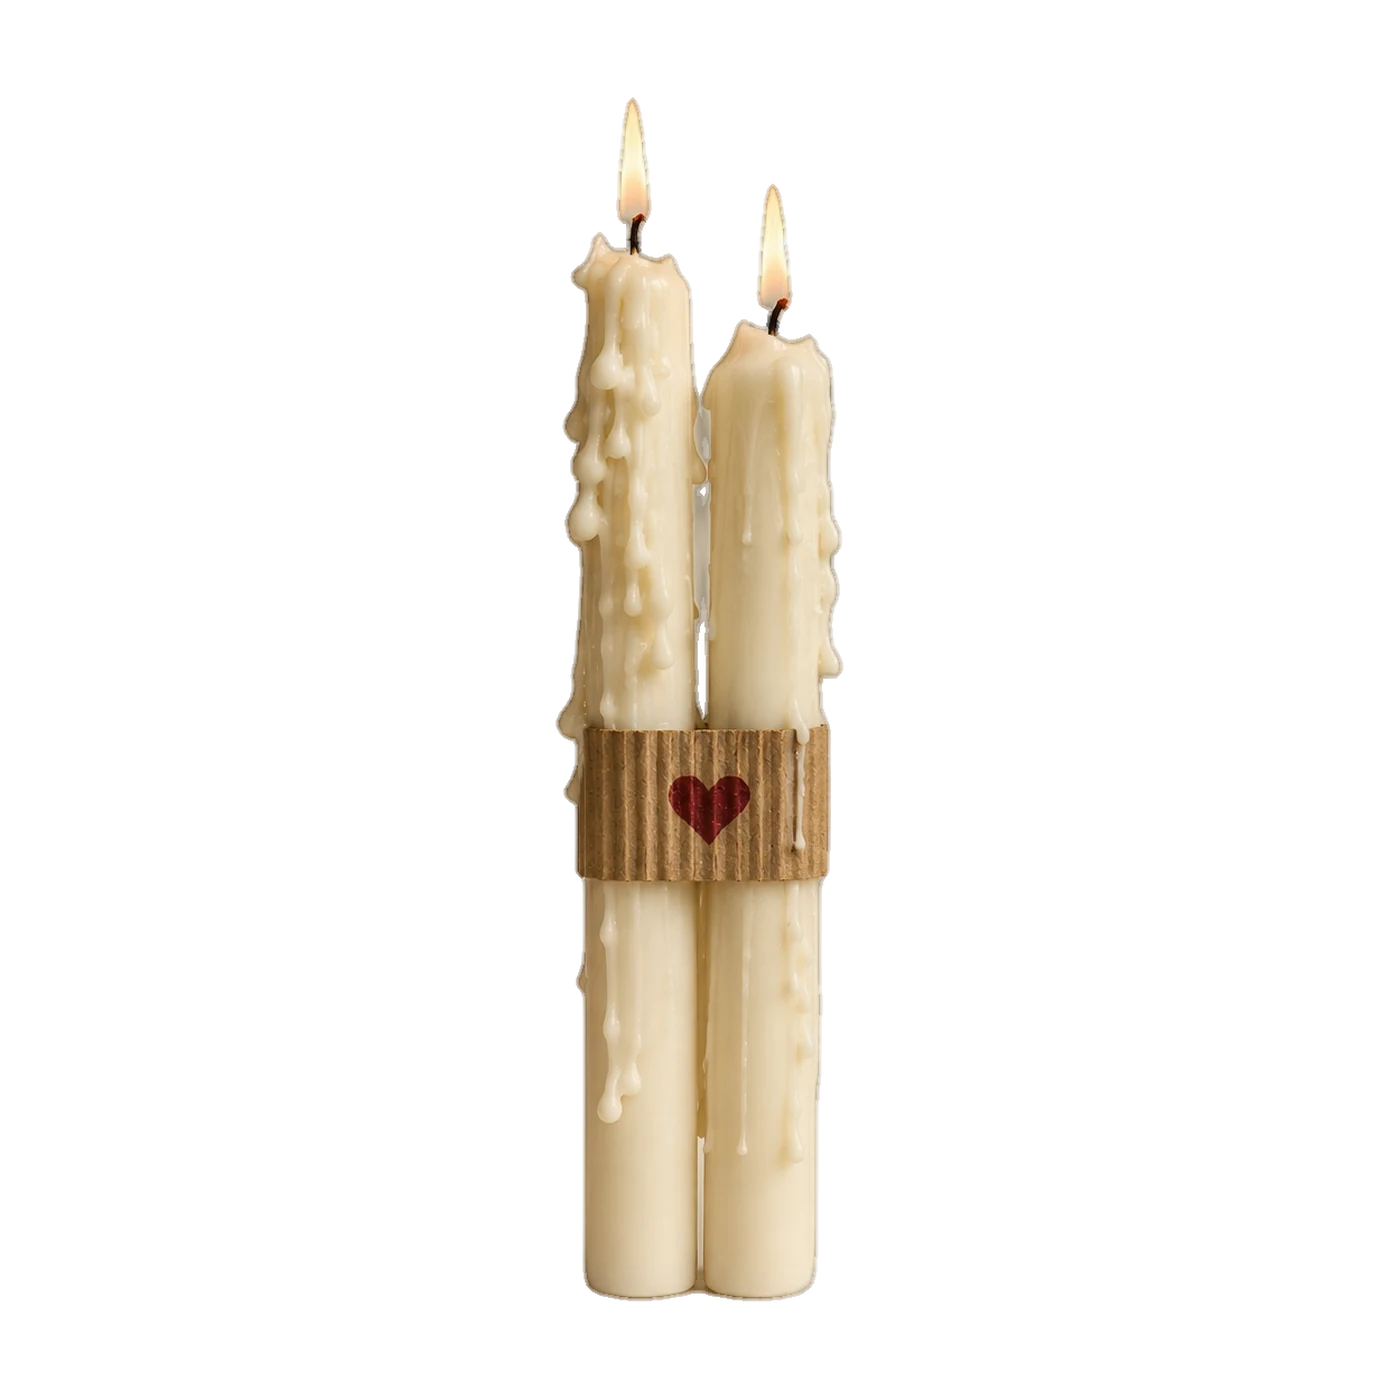
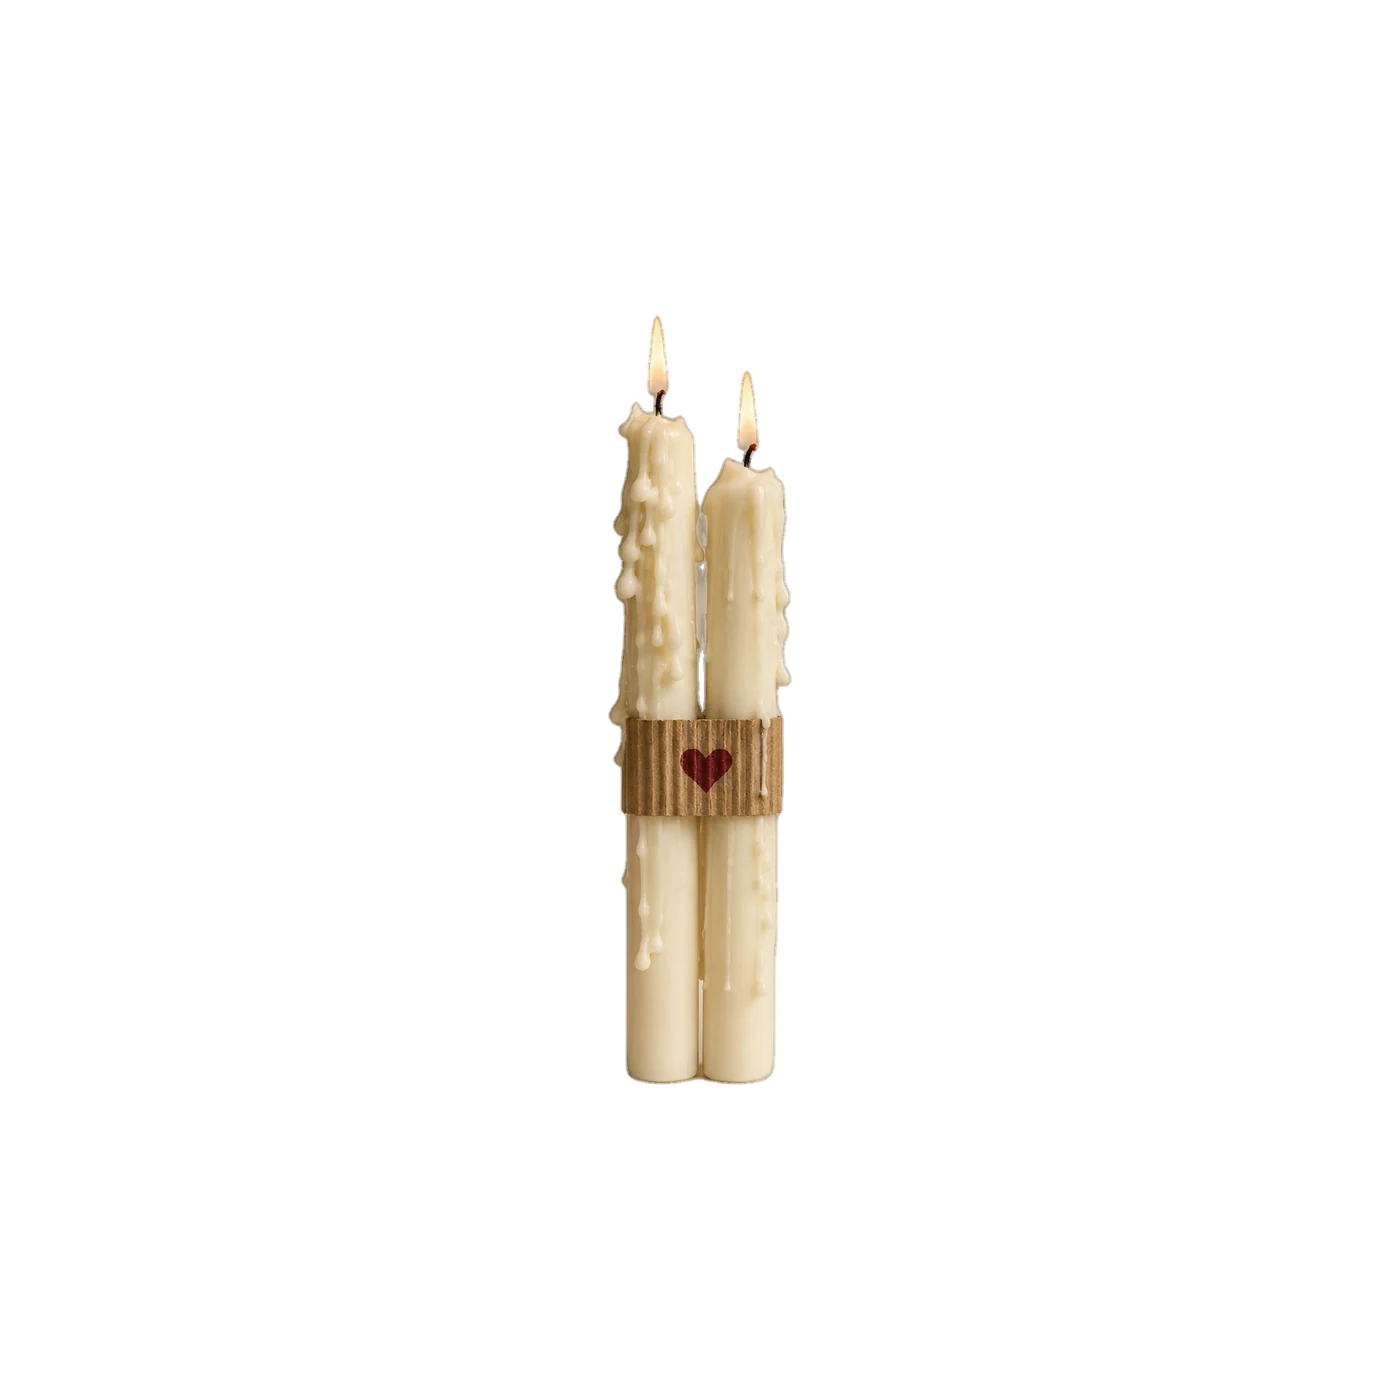
Bring all seven product photos to the same spacious Margiela-style margin
The first pass only re-padded the three that looked obviously oversized
(candle tin, matchbox, lighters) to ~65% fill, leaving candle-sticks and
the totes at the original ~86%. Client asked to match Maison Margiela's
own product photography scale instead — noticeably more negative space
around the object than a typical snug product crop. Re-padded all seven
to ~55% fill uniformly and updated the documented convention in
retail.ts to match.

Claude-Session: https://claude.ai/code/session_01YNooiFC1k2Jrv3Fm1HcV4i

Changed region(s): [[0.3993, 0.0614, 0.6143, 0.9521]]

diff --git a/src/app/content/retail.ts b/src/app/content/retail.ts
@@ -99,7 +99,9 @@ export type CartLine = {
  *                 page, which is what the shelf looked like before.
  *   same margin   --object-pad frames every card identically, so a product
  *                 padded tighter in its own file simply reads larger on the
- *                 shelf. The object spans ~86% of its canvas in all of these.
+ *                 shelf. The object spans ~55% of its canvas in all of these —
+ *                 the airier, more generous margin of the Margiela reference
+ *                 this shelf is styled after, not a snug product-photo crop.
  *
  * A replacement has to meet both, or it will stand out from the rest.
  *
